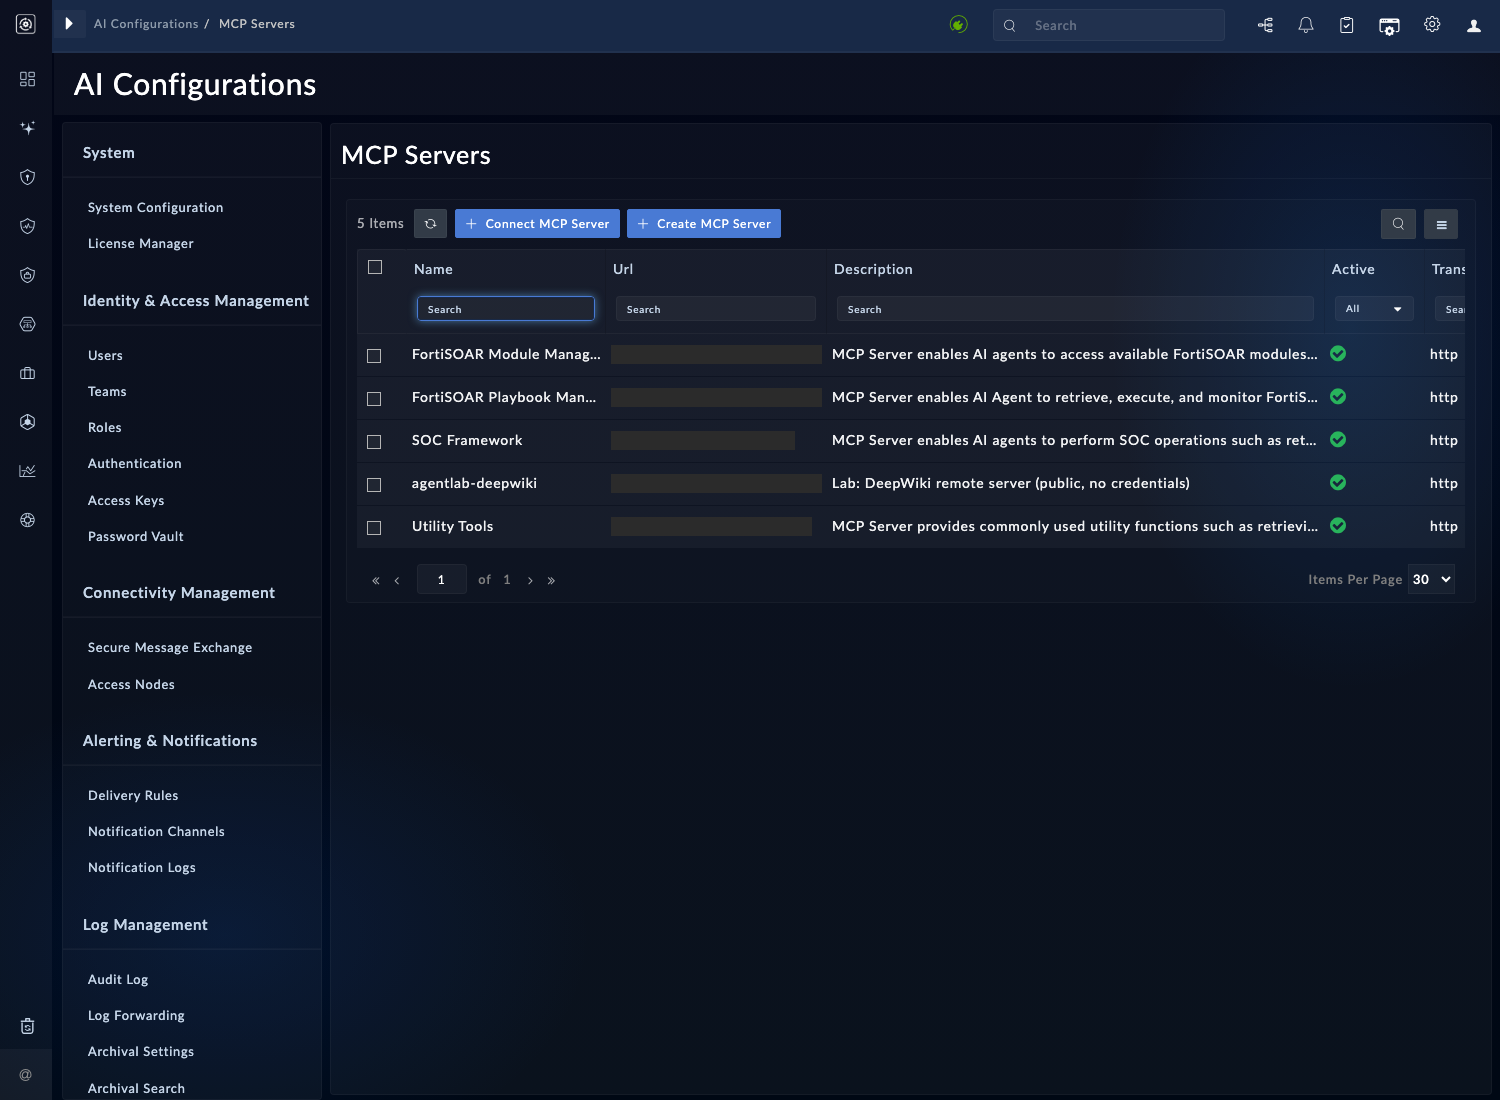
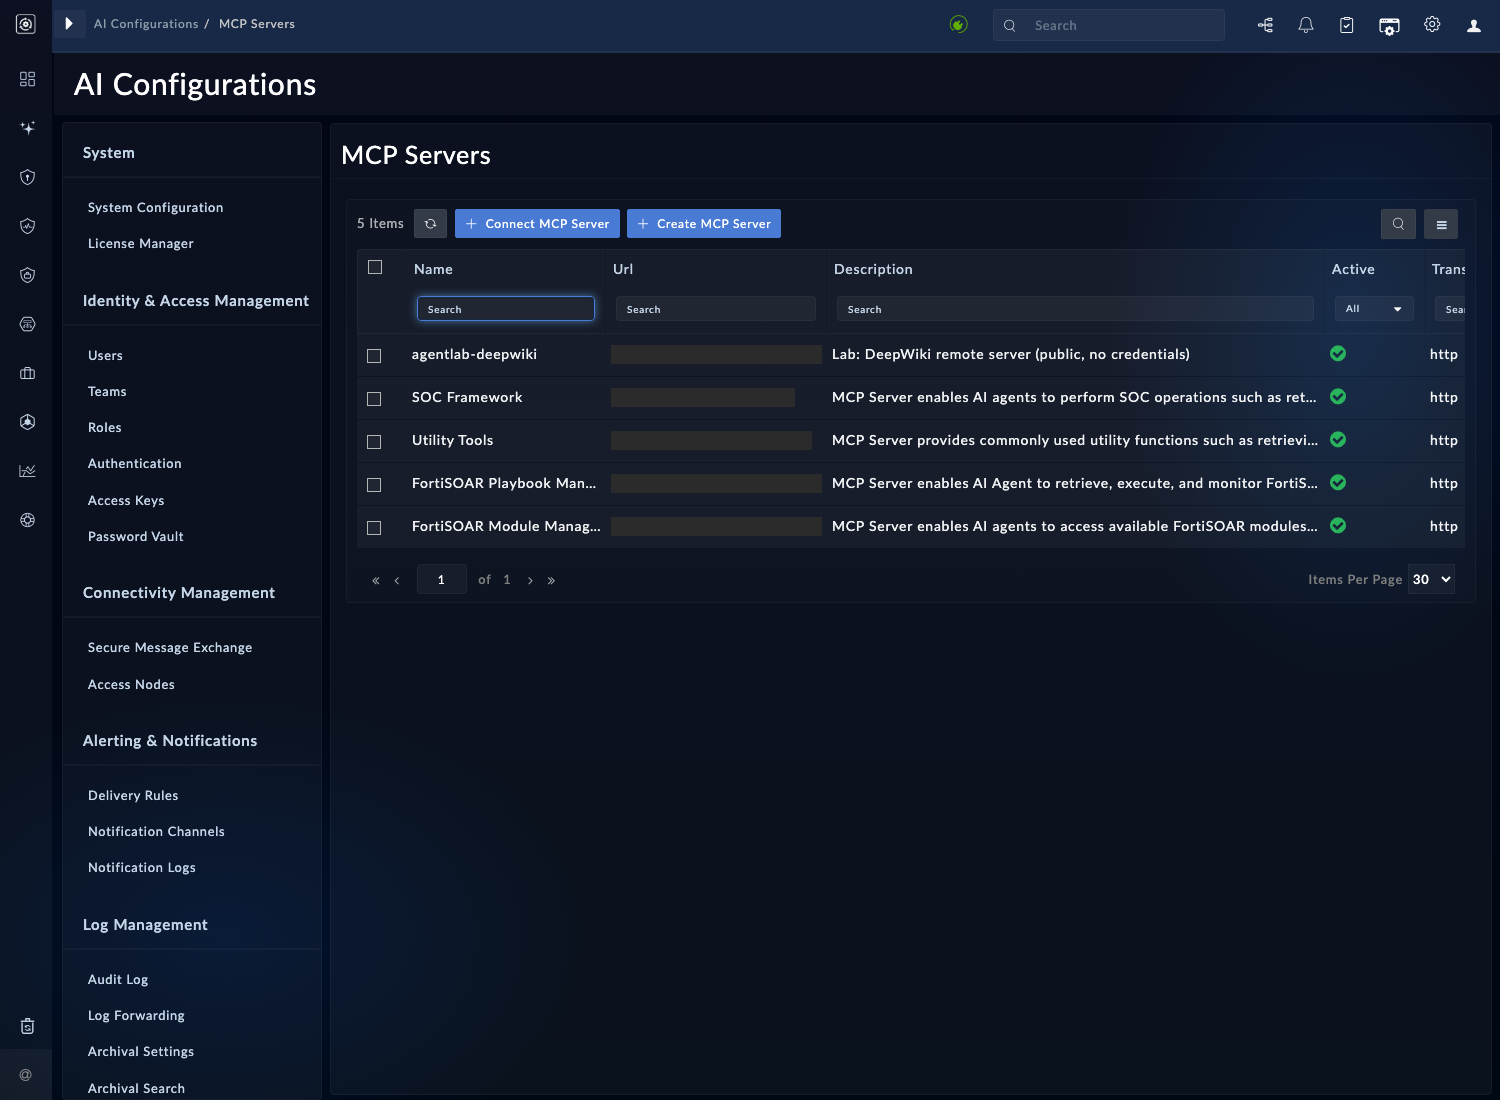
ch08: pin playbook step names; fix designer-canvas nav; refresh captures
The publish step drives an agent that authored step names freely from the
prose prompt, so its YAML could differ from the live playbook and the publish
tool correctly refused to overwrite a differently-structured one. Pin the three
step names (On Alert Created / Tag Alert / Done) in the prompt, matching the
page's own example YAML, so the authored playbook is deterministic and a
re-publish over the existing one is a clean no-op update.

Also switch the canvas verification from a /playbooks/<uuid> deep-link (which
does not load the designer on 8.0) to the in-app openPlaybook helper, and
refresh the ch08 captures (compile, publish, canvas, trigger-and-verify,
run-history, diagnose, run-in-one-call) plus the ch05 MCP-servers list shot.

diff --git a/docubot/08-playbook/chapter.spec.ts b/docubot/08-playbook/chapter.spec.ts
@@ -20,7 +20,7 @@
 // Run: DOCUBOT_SEED=1 SPEND_AI=1 docubot run --chapter 08-playbook
 import * as fs from 'fs';
 import * as path from 'path';
-import { expect, openPlaybookLogs, openRecord, test } from 'docubot';
+import { expect, openPlaybook, openPlaybookLogs, openRecord, test } from 'docubot';
 import { agentTurn, labSeed, promptFor, shouldRunStep, startAgent, toolkit, uiMask } from '../lib/agentlab';
 
 test.describe.configure({ mode: 'serial' });
@@ -30,6 +30,7 @@ const AGENT = process.env.SPEND_AI === '1';
 const TITLE = 'student@laptop: ~/agent-lab';
 
 const TAG_PLAYBOOK = 'Tag Agent Lab Alerts';
+const COLLECTION = 'Agent Lab';
 const PRACTICE_PLAYBOOK = 'Agent Lab Diagnose Practice';
 const PROBE_PLAYBOOK = 'Agent Lab Probe';
 const TAG_TEXT = 'Triaged automatically by the Agent Lab playbook';
@@ -125,9 +126,9 @@ test('chapter 8 - playbook', async ({ gui, local, capture }) => {
     expect(wf, `${TAG_PLAYBOOK} not found on the box`).toBeTruthy();
     expect(wfActive(wf.uuid)).toBe(true);
 
-    // UI: open the playbook's designer canvas by the uuid just read back (live
-    // state, not a click path through the collection list), then check the steps.
-    await soar.goto(`${origin}/playbooks/${wf.uuid}`, { waitUntil: 'domcontentloaded' });
+    // UI: open the playbook's designer canvas in-app (collection -> playbook); a
+    // direct /playbooks/<uuid> deep-link does not load the designer on 8.0.
+    await openPlaybook(soar, origin, { collectionName: COLLECTION, playbookName: TAG_PLAYBOOK });
     const canvas = soar.locator('#designer-container');
     await expect(canvas, `designer canvas for ${TAG_PLAYBOOK} did not load`).toBeVisible({ timeout: 40_000 });
     await expect(canvas).toContainText('Tag Alert', { timeout: 30_000 });

diff --git a/content/08-playbook/01-author-and-publish.md b/content/08-playbook/01-author-and-publish.md
@@ -17,8 +17,10 @@ Give your agent this prompt:
 Build a FortiSOAR playbook collection named "Agent Lab" with one playbook
 "Tag Agent Lab Alerts". Goal: when an alert is created whose name starts with
 "Agent Lab", update that alert's description to "Triaged automatically by the
-Agent Lab playbook", then end. Author the playbook YAML, compile it and fix any
-errors, and show me the compiled result. Do not publish yet.
+Agent Lab playbook", then end. Name the three steps "On Alert Created" (the
+on-create trigger), "Tag Alert" (the update-record step) and "Done" (the end).
+Author the playbook YAML, compile it and fix any errors, and show me the
+compiled result. Do not publish yet.
 ```
 
 <!-- step: fsa08-01-compile-yaml -->
